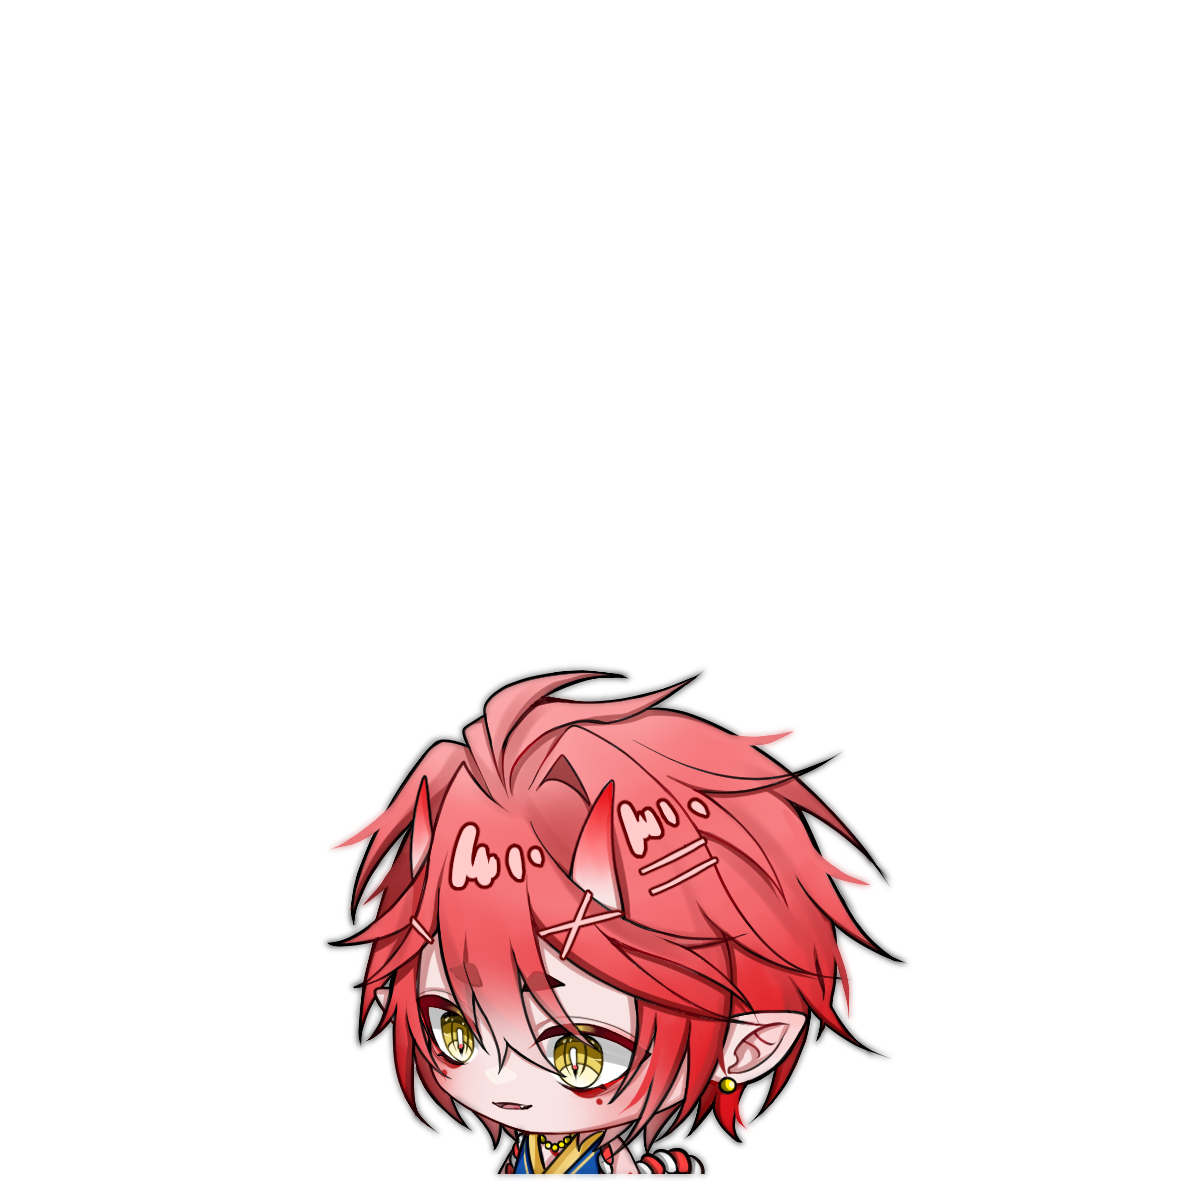
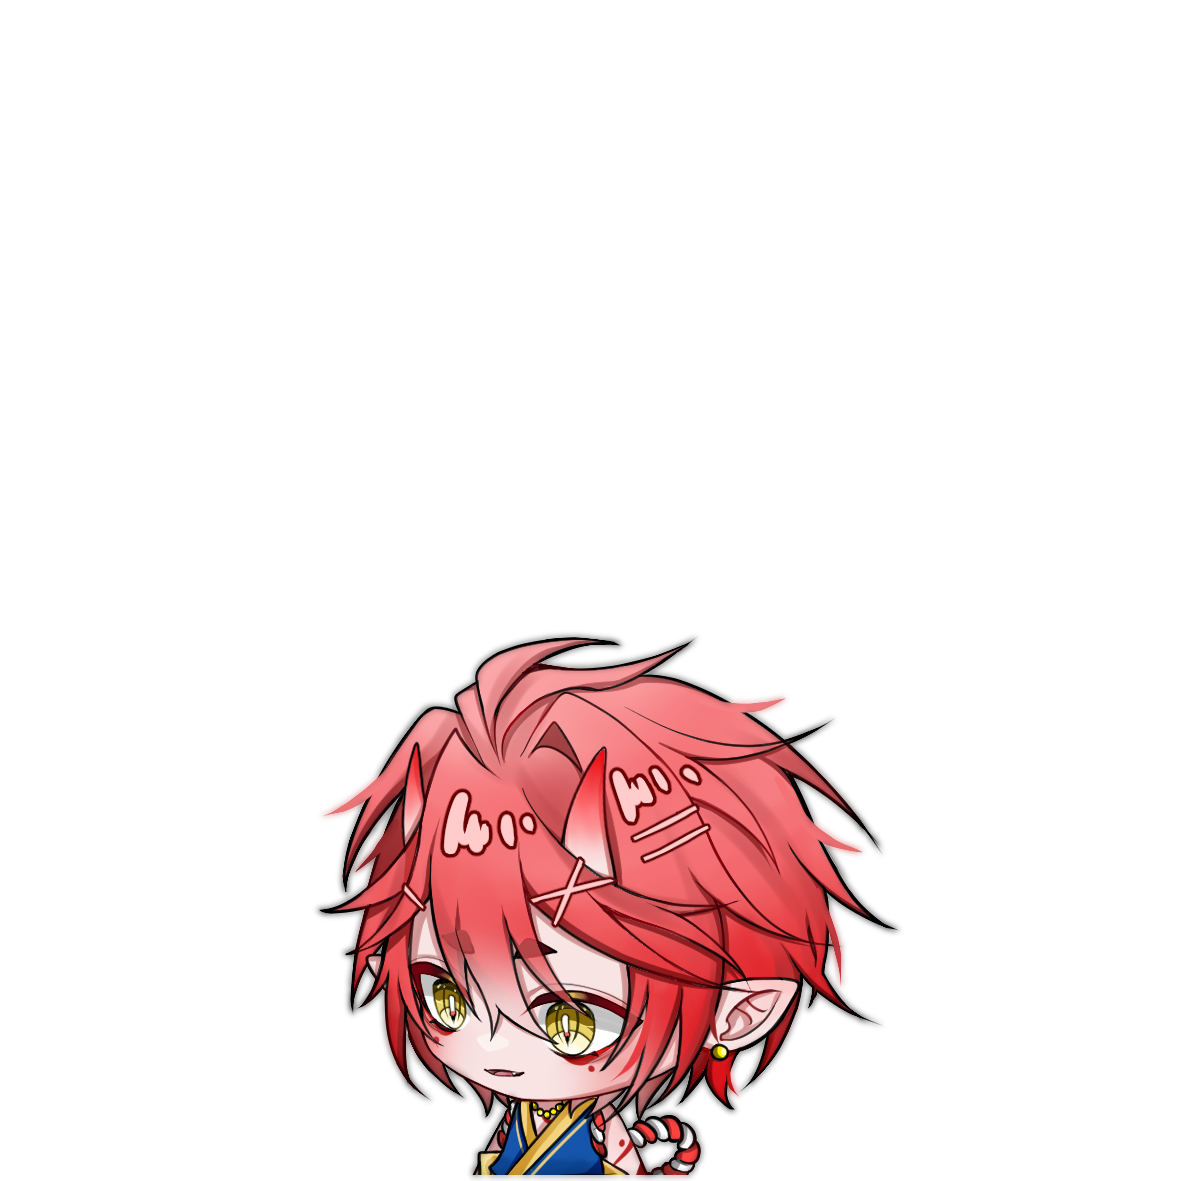
update

Changed region(s): [[0.2743, 0.5182, 0.7621, 1.0], [0.7316, 0.884, 0.7621, 0.9145]]

diff --git a/main.js b/main.js
@@ -570,7 +570,7 @@ function CharacterSRCINI(){
 	Character08SelectButton.removeAttribute("src")
 	Character01SelectButton.attribute("src","image/character01_neck.png")
 	Character02SelectButton.attribute("src","image/character02_neck.png")
-	Character03SelectButton.attribute("src","image/character03.png")
+	Character03SelectButton.attribute("src","image/character03_neck.png")
 	Character04SelectButton.attribute("src","image/character04.png")
 	Character05SelectButton.attribute("src","image/character05.png")
 	Character06SelectButton.attribute("src","image/character06.png")
@@ -641,10 +641,10 @@ function CharacterSelectBgini(){
 	Character02SelectButton.mouseClicked(CharacterSelectSelectFn2)
 
 	Character03SelectButton = createImg("image/character.png","character.png")
-	Character03SelectButton.style("height","36%");
-	Character03SelectButton.style("width","20%");
-	Character03SelectButton.style("left","58.54%");
-	Character03SelectButton.style("top","5.779%");
+	Character03SelectButton.style("height","45%");
+	Character03SelectButton.style("width","20");
+	Character03SelectButton.style("left","54.2%");
+	Character03SelectButton.style("top","0%");
 	Character03SelectButton.style("background","transparent");
 	Character03SelectButton.style("color","transparent");
 	Character03SelectButton.style("position","absolute")
